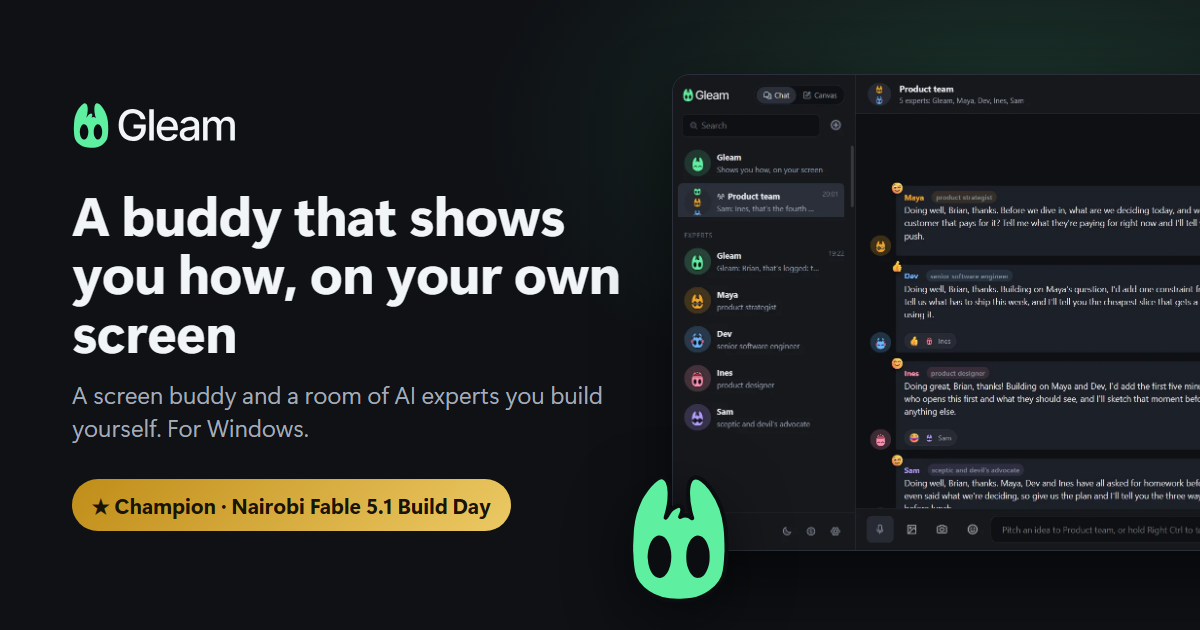
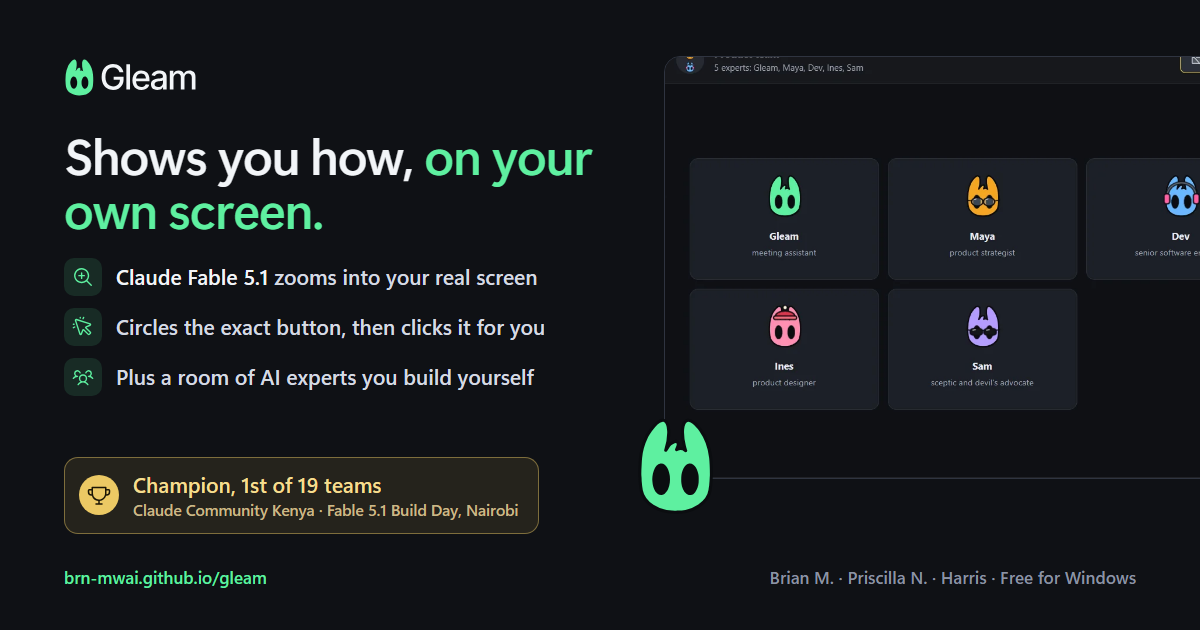
Gleam cursor with blinking eyes, new share card with Fable 5.1 and the team

diff --git a/gleam/assets/cursor.js b/gleam/assets/cursor.js
@@ -1,0 +1,74 @@
+(() => {
+  const mouse = window.matchMedia("(hover: hover) and (pointer: fine)");
+  if (!mouse.matches) return;
+  const still = window.matchMedia("(prefers-reduced-motion: reduce)").matches;
+  const interactive = "a, button, summary, label, video, [role='button'], [data-copy]";
+
+  const cursor = document.createElement("div");
+  cursor.className = "gleam-cursor";
+  cursor.setAttribute("aria-hidden", "true");
+  cursor.innerHTML = '<svg viewBox="-124.5 -49.9 549.4 462.6" aria-hidden="true" focusable="false"><g transform="translate(290 215) scale(1.1) translate(-245 -82)"><path d="M347.7 35.5C355.7 30.6 365.4 38.5 362.3 47.3L314.9 182.4C312.1 190.6 300.9 191.5 296.7 183.9L276.2 146.3C275.1 144.2 273.3 142.6 271.2 141.8L230 125.1C222.4 122 221.6 111.5 228.6 107.3L347.7 35.5Z" fill="#5ef0a0" stroke="#0b0d10" stroke-width="13" stroke-linejoin="round"/></g><g class="gc-body"><path d="M104.06 24.3099C105.721 24.1957 108.452 24.4755 109.979 25.0318C125.864 30.8163 127.766 53.1121 128.334 67.1456C129.379 92.9616 124.387 118.458 116.648 142.862C122.498 135.333 126.643 126.23 133.713 119.254C140.237 112.817 159.329 100.411 164.999 114.174C168.479 122.619 162.522 132.795 159.195 140.436C170.98 134.529 183.004 134.231 192.989 143.521C193.489 143.986 194.302 144.681 194.979 144.623C194.655 142.772 193.362 140.007 192.772 138.062C191.654 134.385 190.67 130.714 189.74 126.989C184.229 104.917 181.149 81.8301 182.912 59.0983C183.941 49.3103 186.647 34.7878 194.758 28.4713C212.773 14.4428 235.028 40.9646 245.6 53.3831C248.464 56.7478 251.715 61.8223 254.402 65.5926C276.61 96.7473 288.507 134.443 292.872 172.199C295.3 194.148 295.785 217.509 295.87 239.653C295.885 243.857 295.19 248.097 295.095 252.252C294.857 262.56 293.917 272.795 292.94 283.055C292.045 288.362 291.29 293.89 290.545 299.225C286.887 325.427 268.935 346.59 247.931 361.452C232.01 372.54 213.957 380.2 194.918 383.94C181.348 386.542 171.208 386.537 157.582 386.88C124.286 387.717 93.1456 382.107 65.1654 362.995C43.2074 347.997 25.9539 328.407 20.8432 301.55C18.7547 289.985 17.2905 278.315 16.457 266.592C16.1601 262.087 16.1086 257.315 15.9125 252.757C15.7798 248.915 15.1674 245.019 15.0173 241.195C14.5456 229.179 15.1466 217.634 15.9245 205.671C16.6455 194.584 16.6986 183.354 17.9709 172.248C20.9233 144.156 28.6779 116.78 40.8966 91.3128C42.0136 89.0211 43.1559 86.2168 44.3124 84.0621C45.6481 81.8576 47.0466 79.8056 48.4296 77.6171C59.7866 59.6458 72.5576 40.8876 90.7589 29.2473C95.1999 26.4073 98.9421 25.2711 104.06 24.3099Z" fill="#5ef0a0" stroke="#0b0d10" stroke-width="13" stroke-linejoin="round"/><g class="gc-eyes"><path class="gc-eye" d="M101.191 319.49C111.449 318.102 114.963 312.387 120.944 304.942C122.914 302.27 124.292 299.435 125.66 296.385C132.982 280.052 134.536 262.607 132.706 244.578C130.903 226.805 119.933 193.568 96.7244 195.311C96.6651 195.321 96.6059 195.331 96.5466 195.341C70.8064 197.619 61.6814 245.203 64.4054 265.882C64.9009 269.642 65.0669 274.182 65.8141 277.835C69.3694 295.212 79.5431 321.21 101.191 319.49Z" fill="#0b0d10"/><path class="gc-eye" d="M214.593 319.452C222.272 317.992 227.741 314.487 232.168 307.945C239.713 296.92 244.344 284.162 245.628 270.865C246.36 262.622 246.437 247.927 245.086 239.834C242.104 221.963 231.793 194.03 209.538 195.33C189.481 197.749 179.505 227.315 177.932 244.476C177.251 251.892 177.291 265.165 178.106 272.465C179.734 287.047 186.199 304.992 197.679 314.612C202.894 318.91 208.034 320.015 214.593 319.452Z" fill="#0b0d10"/></g></g></svg>';
+  document.body.append(cursor);
+  document.documentElement.classList.add("has-gleam-cursor");
+
+  let x = 0;
+  let y = 0;
+  let lastX = 0;
+  let tilt = 0;
+  let look = 0;
+  let frame = 0;
+  let settle = 0;
+
+  const draw = () => {
+    frame = 0;
+    cursor.style.transform = `translate3d(${x}px, ${y}px, 0)`;
+    cursor.style.setProperty("--tilt", `${tilt}deg`);
+    cursor.style.setProperty("--look", `${look}px`);
+  };
+  const schedule = () => {
+    if (!frame) frame = requestAnimationFrame(draw);
+  };
+
+  const blink = () => {
+    cursor.classList.add("is-blinking");
+    setTimeout(() => cursor.classList.remove("is-blinking"), 120);
+  };
+  const blinkLater = () => {
+    setTimeout(() => {
+      if (!document.hidden && cursor.classList.contains("is-on")) {
+        blink();
+        if (Math.random() < 0.2) setTimeout(blink, 260);
+      }
+      blinkLater();
+    }, 2200 + Math.random() * 3400);
+  };
+  if (!still) blinkLater();
+
+  window.addEventListener("pointermove", (event) => {
+    if (event.pointerType !== "mouse") return;
+    x = event.clientX;
+    y = event.clientY;
+    const moved = x - lastX;
+    lastX = x;
+    if (!still) {
+      tilt = Math.max(-14, Math.min(14, moved * 0.9));
+      look = Math.max(-16, Math.min(16, moved * 2));
+    }
+    cursor.classList.add("is-on");
+    cursor.classList.toggle("is-pointing", Boolean(event.target.closest?.(interactive)));
+    clearTimeout(settle);
+    settle = setTimeout(() => {
+      tilt = 0;
+      look = 0;
+      schedule();
+    }, 110);
+    schedule();
+  }, { passive: true });
+  window.addEventListener("pointerdown", () => {
+    cursor.classList.add("is-pressed");
+    blink();
+  });
+  window.addEventListener("pointerup", () => cursor.classList.remove("is-pressed"));
+  document.documentElement.addEventListener("mouseleave", () => cursor.classList.remove("is-on"));
+  window.addEventListener("blur", () => cursor.classList.remove("is-on"));
+})();

diff --git a/gleam/index.html b/gleam/index.html
@@ -13,16 +13,17 @@
   <meta property="og:type" content="website">
   <meta property="og:site_name" content="Gleam">
   <meta property="og:title" content="Gleam: a buddy that shows you how, on your own screen">
-  <meta property="og:description" content="A screen buddy and a room of AI experts you build yourself. Champion, Nairobi Fable 5.1 Build Day.">
+  <meta property="og:description" content="Claude Fable 5.1 zooms into your real screen, circles the exact button and clicks it for you. Plus a room of AI experts you build. Champion, 1st of 19, Claude Community Kenya Build Day.">
   <meta property="og:url" content="https://brn-mwai.github.io/gleam/">
-  <meta property="og:image" content="https://brn-mwai.github.io/gleam/assets/og.png">
+  <meta property="og:image" content="https://brn-mwai.github.io/gleam/assets/og.png?v=2">
   <meta property="og:image:width" content="1200">
   <meta property="og:image:height" content="630">
+  <meta property="og:image:alt" content="Gleam: shows you how, on your own screen. Claude Fable 5.1 zooms into your real screen. Champion, 1st of 19 teams.">
   <meta name="twitter:card" content="summary_large_image">
   <meta name="twitter:title" content="Gleam: a buddy that shows you how, on your own screen">
-  <meta name="twitter:description" content="A screen buddy and a room of AI experts you build yourself. Champion, Nairobi Fable 5.1 Build Day.">
-  <meta name="twitter:image" content="https://brn-mwai.github.io/gleam/assets/og.png">
-  <link rel="stylesheet" href="assets/site.css?v=3">
+  <meta name="twitter:description" content="Claude Fable 5.1 zooms into your real screen, circles the exact button and clicks it for you. Plus a room of AI experts you build. Champion, 1st of 19, Claude Community Kenya Build Day.">
+  <meta name="twitter:image" content="https://brn-mwai.github.io/gleam/assets/og.png?v=2">
+  <link rel="stylesheet" href="assets/site.css?v=5">
   <script type="application/ld+json">
   {
     "@context": "https://schema.org",
@@ -407,5 +408,6 @@
   </footer>
 
   <script src="assets/site.js?v=2" defer></script>
+  <script src="assets/cursor.js?v=2" defer></script>
 </body>
 </html>

diff --git a/gleam/assets/site.css b/gleam/assets/site.css
@@ -223,3 +223,17 @@ footer { padding: 44px 0 56px; border-top: 1px solid var(--line); color: var(--f
 .license-text { white-space: pre-wrap; word-break: break-word; color: var(--text); font-size: 13px; }
 
 b, strong, th, summary, dt { font-weight: 500; }
+
+.has-gleam-cursor, .has-gleam-cursor * { cursor: none !important; }
+.gleam-cursor { position: fixed; left: 0; top: 0; z-index: 1000; pointer-events: none; opacity: 0; transition: opacity 140ms; will-change: transform; }
+.gleam-cursor.is-on { opacity: 1; }
+.gleam-cursor svg { display: block; width: 46px; height: auto; overflow: visible; transform: translate(-98.1%, -46.2%); transform-origin: 98.1% 46.2%; rotate: var(--tilt, 0deg); scale: 1; transition: rotate 220ms cubic-bezier(0.2, 0, 0, 1), scale 160ms cubic-bezier(0.2, 0, 0, 1); }
+.gleam-cursor .gc-body { transition: translate 180ms cubic-bezier(0.2, 0, 0, 1); }
+.gleam-cursor .gc-eyes { translate: var(--look, 0px) 0; transition: translate 200ms cubic-bezier(0.2, 0, 0, 1); }
+.gleam-cursor .gc-eye { transform-box: fill-box; transform-origin: 50% 50%; transition: scale 70ms ease-out; }
+.gleam-cursor.is-blinking .gc-eye { scale: 1 0.1; }
+.gleam-cursor.is-pointing .gc-eyes { translate: 14px -10px; }
+.gleam-cursor.is-pointing svg { scale: 1.14; }
+.gleam-cursor.is-pointing .gc-body { translate: -34px 26px; }
+.gleam-cursor.is-pressed svg { scale: 0.9; }
+@media (prefers-reduced-motion: reduce) { .gleam-cursor svg, .gleam-cursor .gc-body, .gleam-cursor .gc-eyes { transition: none; } }

diff --git a/gleam/license.html b/gleam/license.html
@@ -8,7 +8,7 @@
   <meta name="theme-color" content="#0f1115">
   <link rel="canonical" href="https://brn-mwai.github.io/gleam/license.html">
   <link rel="icon" href="assets/favicon.svg" type="image/svg+xml">
-  <link rel="stylesheet" href="assets/site.css?v=3">
+  <link rel="stylesheet" href="assets/site.css?v=5">
 </head>
 <body>
   <a class="skip" href="#main">Skip to content</a>
@@ -73,5 +73,6 @@ Contact: mwaibryn@gmail.com</pre>
       <nav aria-label="Footer"><a href="privacy.html">Privacy Policy</a><a href="terms.html">Terms of Use</a><a href="license.html">Licence</a><a href="security.html">Security</a><a href="mailto:mwaibryn@gmail.com">Contact</a></nav>
     </div>
   </footer>
+  <script src="assets/cursor.js?v=2" defer></script>
 </body>
 </html>

diff --git a/gleam/security.html b/gleam/security.html
@@ -8,7 +8,7 @@
   <meta name="theme-color" content="#0f1115">
   <link rel="canonical" href="https://brn-mwai.github.io/gleam/security.html">
   <link rel="icon" href="assets/favicon.svg" type="image/svg+xml">
-  <link rel="stylesheet" href="assets/site.css?v=3">
+  <link rel="stylesheet" href="assets/site.css?v=5">
 </head>
 <body>
   <a class="skip" href="#main">Skip to content</a>
@@ -68,5 +68,6 @@
       <nav aria-label="Footer"><a href="privacy.html">Privacy Policy</a><a href="terms.html">Terms of Use</a><a href="license.html">Licence</a><a href="security.html">Security</a><a href="mailto:mwaibryn@gmail.com">Contact</a></nav>
     </div>
   </footer>
+  <script src="assets/cursor.js?v=2" defer></script>
 </body>
 </html>

diff --git a/gleam/privacy.html b/gleam/privacy.html
@@ -8,7 +8,7 @@
   <meta name="theme-color" content="#0f1115">
   <link rel="canonical" href="https://brn-mwai.github.io/gleam/privacy.html">
   <link rel="icon" href="assets/favicon.svg" type="image/svg+xml">
-  <link rel="stylesheet" href="assets/site.css?v=3">
+  <link rel="stylesheet" href="assets/site.css?v=5">
 </head>
 <body>
   <a class="skip" href="#main">Skip to content</a>
@@ -94,5 +94,6 @@
       <nav aria-label="Footer"><a href="privacy.html">Privacy Policy</a><a href="terms.html">Terms of Use</a><a href="license.html">Licence</a><a href="security.html">Security</a><a href="mailto:mwaibryn@gmail.com">Contact</a></nav>
     </div>
   </footer>
+  <script src="assets/cursor.js?v=2" defer></script>
 </body>
 </html>

diff --git a/gleam/terms.html b/gleam/terms.html
@@ -8,7 +8,7 @@
   <meta name="theme-color" content="#0f1115">
   <link rel="canonical" href="https://brn-mwai.github.io/gleam/terms.html">
   <link rel="icon" href="assets/favicon.svg" type="image/svg+xml">
-  <link rel="stylesheet" href="assets/site.css?v=3">
+  <link rel="stylesheet" href="assets/site.css?v=5">
 </head>
 <body>
   <a class="skip" href="#main">Skip to content</a>
@@ -74,5 +74,6 @@
       <nav aria-label="Footer"><a href="privacy.html">Privacy Policy</a><a href="terms.html">Terms of Use</a><a href="license.html">Licence</a><a href="security.html">Security</a><a href="mailto:mwaibryn@gmail.com">Contact</a></nav>
     </div>
   </footer>
+  <script src="assets/cursor.js?v=2" defer></script>
 </body>
 </html>
